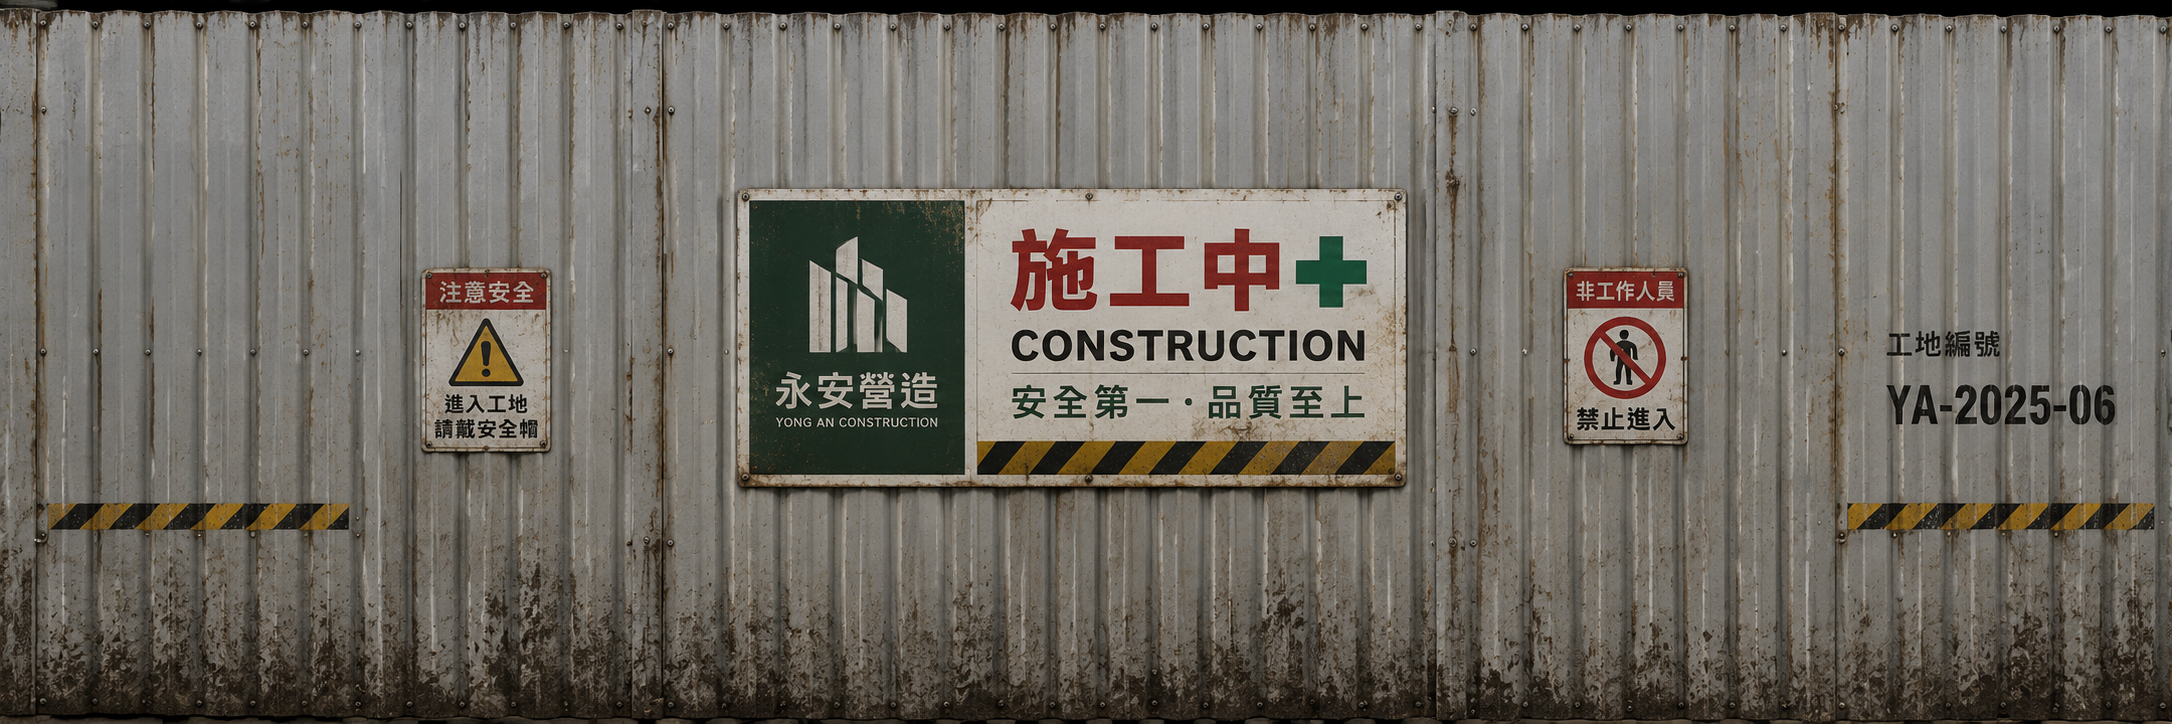
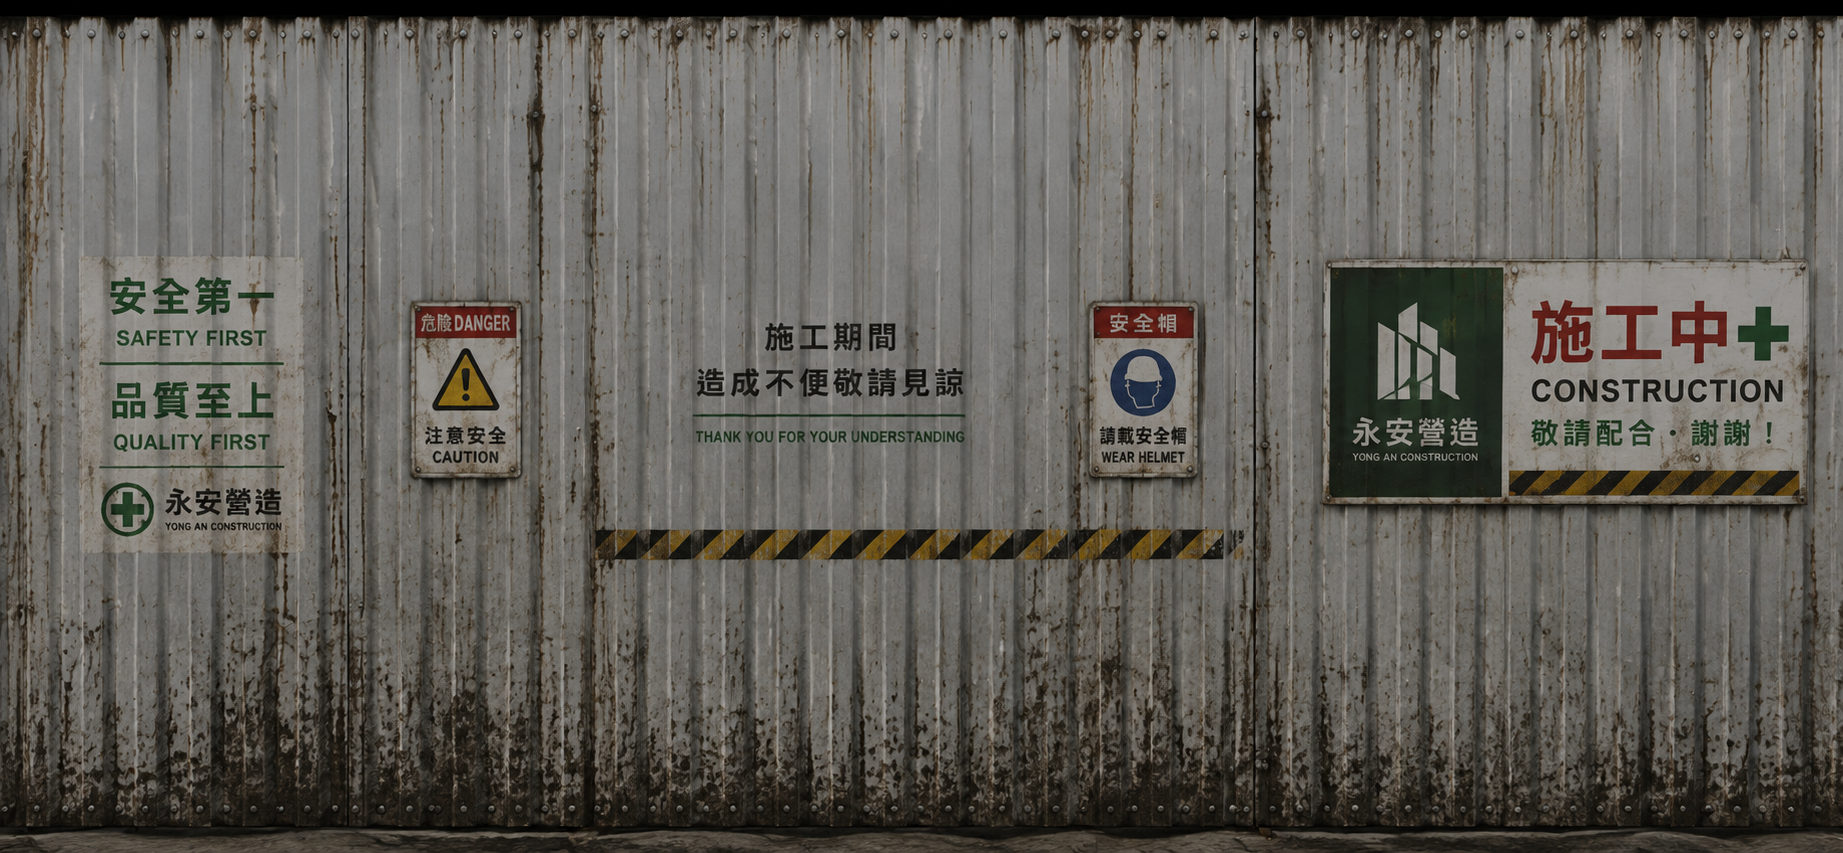
告示牌換成新版(訊息更完整)+ 拿掉重複的素色警示牌
fence-sign.png v2(kc 重生,安全第一/危險注意/施工中都在同一張橫幅裡,
跟浪板底圖更貼合),?v=2 破快取。順手拿掉兩塊素色「施工中 請小心安全」
警示牌——新告示牌已經涵蓋這些訊息,兩個疊在一起會重複,遠景導航用的
飄浮字維持不動。

diff --git a/prototypes/lib/scene-city3d.js b/prototypes/lib/scene-city3d.js
@@ -1730,7 +1730,7 @@ export function buildCity(THREE, scene){
        看到的那面),朝基地內側那面(+z)還是浪板材質,不用跟著換。 */
     const fenceSignPending = [];
     let fenceSignImg = null;
-    new THREE.ImageLoader().load(TEX_DIR + 'fence-sign.png', img => {
+    new THREE.ImageLoader().load(TEX_DIR + 'fence-sign.png?v=2', img => {   // v2:kc 重生了一版警示牌更多、跟浪板底圖更貼合的版本
       fenceSignImg = img;
       fenceSignPending.forEach(({mat, faceW}) => applyFenceSign(mat, faceW));
     }, undefined, () => {});
@@ -1800,12 +1800,12 @@ export function buildCity(THREE, scene){
        看不出「這裡是工地」。鋪一塊土色平面蓋滿整個基地,压过原本的路面。 */
     add(box(siteW-.3, .06, siteD-.3, std({ color:0x5a4530, roughness:1 })), cx, .03, siteCz, false, true);
 
-    /* 警示牌掛在圍籬正面(不越過 siteZ0),兩端各一面,不再只有中間一小塊;
-       交通錐改擺在缺口出入口正前方(原本沿整段西側排,跟「這是門口」的
-       閱讀對不上)。 */
-    [cx-siteW/2+4, cx+siteW/2-4].forEach(sx => {
-      add(box(3.6,2.4,.12, std({color:0xf2e8d8,roughness:.6})), sx, 2.4, siteZ0+.1, false, true);
-    });
+    /* 素色警示牌拿掉了(2026-08-28)——fence-sign.png 那張告示牌全景已經
+       涵蓋「施工中/安全第一/危險注意」這些內容,兩塊素色板子留著會跟
+       新告示牌的訊息重複。遠景導航用的飄浮字(跟「火車站」「警察局」
+       同一套,站遠一點就看得到,跟近看才讀得到的牆面貼圖是兩個層級)
+       維持不動。交通錐擺在缺口出入口正前方(原本沿整段西側排,跟「這是
+       門口」的閱讀對不上)。 */
     landmarks.push({ x:cx, y:3.6, z:siteZ0, text:'施工中\n請小心安全' });
     /* 交通錐(2026-08-28,kc 開滑桿把縮放拉到 2.18 後說「定案」——把這個倍率
        直接烤進 propModel targetSize,不留在滑桿上,滑桿之後打開預設回到 1
